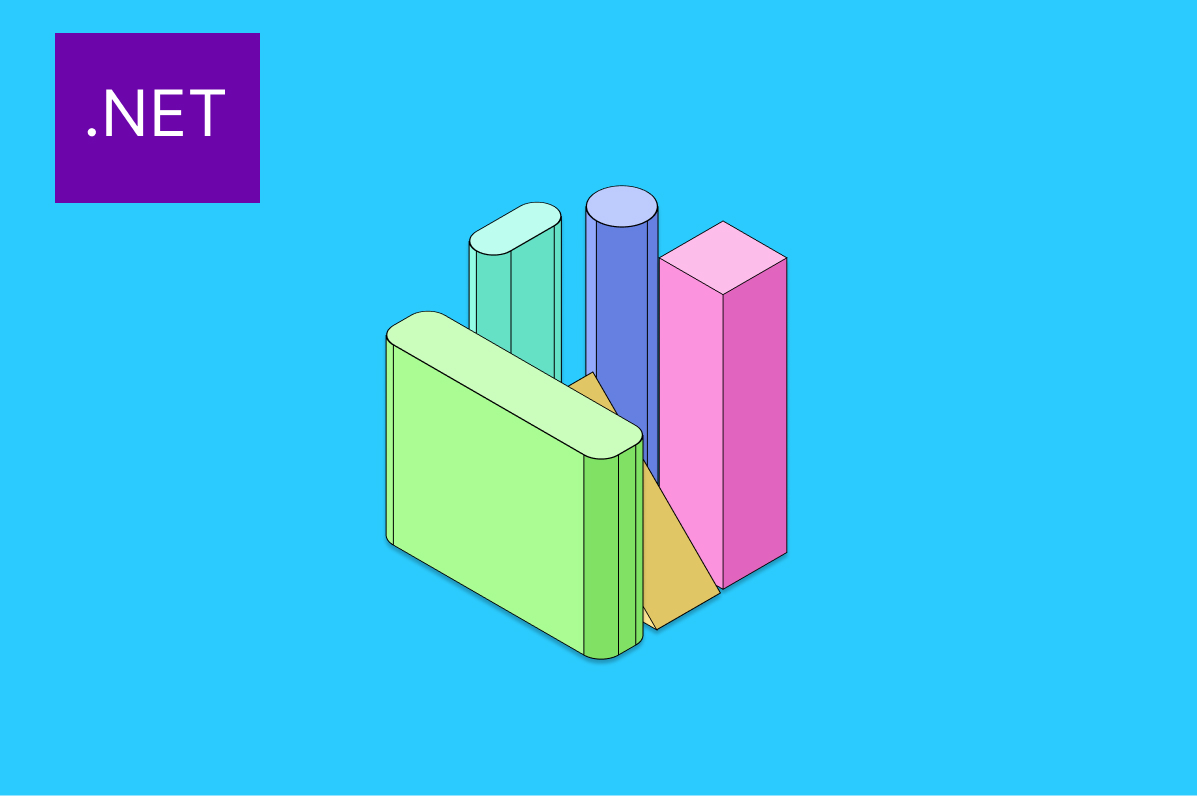
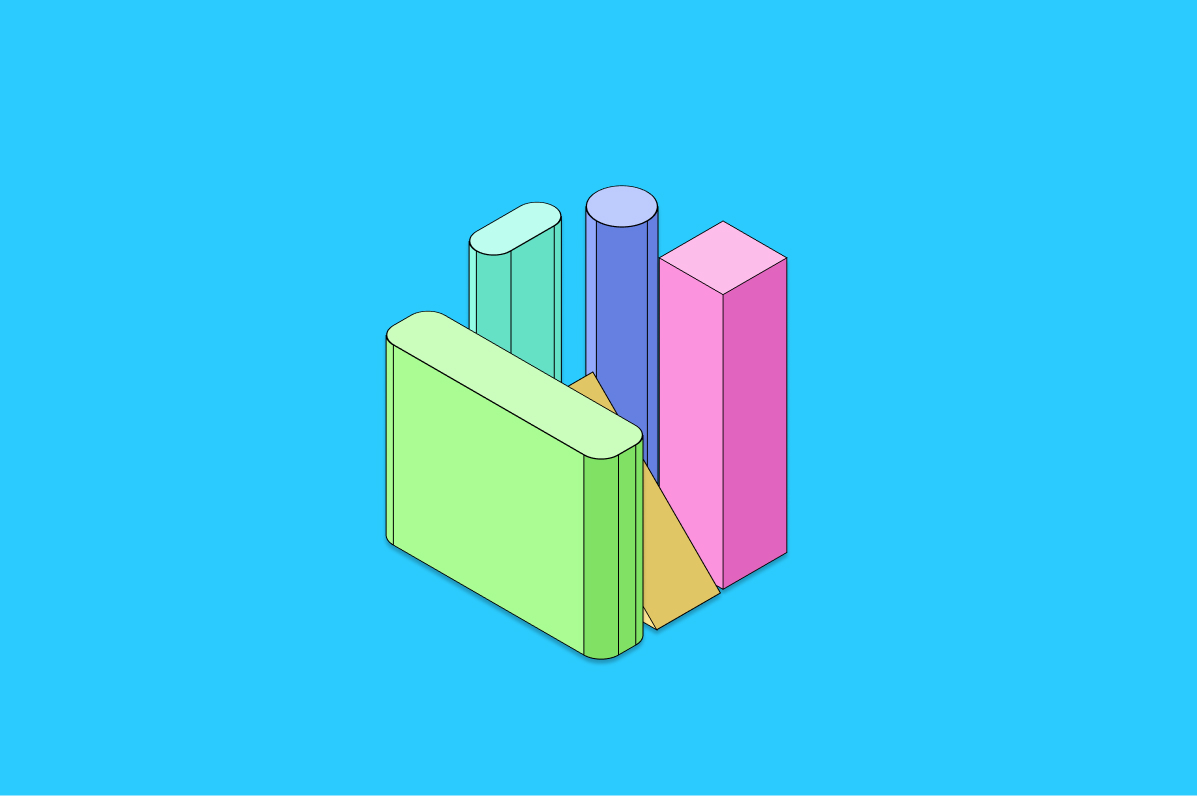
Add contact page information. Update home page with more Three JS items.:

Changed region(s): [[0.0309, 0.0302, 0.2164, 0.2714]]

diff --git a/src/components/Three.js b/src/components/Three.js
@@ -2,6 +2,11 @@ import React, { useRef, useEffect } from 'react';
 import * as THREE from 'three';
 import { useTheme } from '@mui/material/styles';
 
+import dotnet from 'assets/images/icons/dotnet.png';
+import webdesign from 'assets/images/icons/react.png';
+import html5 from 'assets/images/icons/html5.png';
+import css from 'assets/images/icons/css.png';
+
 const ThreeComponent = () => {
   const ref = useRef();
   const theme = useTheme();
@@ -27,12 +32,16 @@ const ThreeComponent = () => {
     });
 
     const cube1 = new THREE.Mesh(geometry, material);
-    cube1.position.set(6, 3, 0);
+    cube1.position.set(5, 4, 0);
     scene.add(cube1);
 
     const cube2 = new THREE.Mesh(geometry, material);
     cube2.position.set(-18, 3, -16);
     scene.add(cube2);
+
+    const cube3 = new THREE.Mesh(geometry, material);
+    cube3.position.set(1, -6, -5);
+    scene.add(cube3);
 
     const coneGeometry = new THREE.ConeGeometry(1, 2, 3);
     const cone1 = new THREE.Mesh(coneGeometry, material);
@@ -44,14 +53,16 @@ const ThreeComponent = () => {
     scene.add(cone2);
 
     const cone3 = new THREE.Mesh(coneGeometry, material);
-    cone3.position.set(-5, -11, -18);
+    cone3.position.set(-7, -11, -18);
     scene.add(cone3);
 
-    // IcosahedronGeometry
+    const cone4 = new THREE.Mesh(coneGeometry, material);
+    cone4.position.set(5, 19, -20);
+    scene.add(cone4);
 
     const icosahedronGeometry = new THREE.IcosahedronGeometry(1, 0);
     const icosahedron = new THREE.Mesh(icosahedronGeometry, material);
-    icosahedron.position.set(-8, -3, -4);
+    icosahedron.position.set(-8, -4, -4);
     scene.add(icosahedron);
 
     const octahedronGeometry = new THREE.OctahedronGeometry(1, 0);
@@ -60,8 +71,38 @@ const ThreeComponent = () => {
     scene.add(octahedron1);
 
     const octahedron2 = new THREE.Mesh(octahedronGeometry, material);
-    octahedron2.position.set(2, 11, -9);
+    octahedron2.position.set(-4, 12, -9);
     scene.add(octahedron2);
+
+    const textureLoader = new THREE.TextureLoader();
+    const texture1 = textureLoader.load(dotnet); // Replace with your image path
+    const circle1Material = new THREE.MeshMatcapMaterial({ map: texture1 });
+
+    const texture2 = textureLoader.load(webdesign); // Replace with your image path
+    const circle2Material = new THREE.MeshMatcapMaterial({ map: texture2 });
+
+    const texture3 = textureLoader.load(html5); // Replace with your image path
+    const circle3Material = new THREE.MeshMatcapMaterial({ map: texture3 });
+
+    const texture4 = textureLoader.load(css); // Replace with your image path
+    const circle4Material = new THREE.MeshMatcapMaterial({ map: texture4 });
+
+    const cylinderGeometry = new THREE.CylinderGeometry(1, 1, 0.2, 64);
+    const cylinder1 = new THREE.Mesh(cylinderGeometry, circle1Material);
+    cylinder1.position.set(-21, 7, -14);
+    scene.add(cylinder1);
+
+    const cylinder2 = new THREE.Mesh(cylinderGeometry, circle2Material);
+    cylinder2.position.set(27, 24, -28);
+    scene.add(cylinder2);
+
+    const cylinder3 = new THREE.Mesh(cylinderGeometry, circle3Material);
+    cylinder3.position.set(16, -6, -13);
+    scene.add(cylinder3);
+
+    const cylinder4 = new THREE.Mesh(cylinderGeometry, circle4Material);
+    cylinder4.position.set(-12, -14, -18);
+    scene.add(cylinder4);
 
     camera.position.z = 10;
 
@@ -71,6 +112,8 @@ const ThreeComponent = () => {
       cube1.rotation.y += 0.01;
       cube2.rotation.x += 0.01;
       cube2.rotation.y += 0.01;
+      cube3.rotation.x += 0.01;
+      cube3.rotation.y += 0.01;
 
       cone1.rotation.x += 0.01;
       cone1.rotation.y += 0.01;
@@ -78,6 +121,17 @@ const ThreeComponent = () => {
       cone2.rotation.y += 0.01;
       cone3.rotation.x += 0.01;
       cone3.rotation.y += 0.01;
+      cone4.rotation.x += 0.01;
+      cone4.rotation.y += 0.01;
+
+      cylinder1.rotation.x += 0.01;
+      cylinder1.rotation.y += 0.01;
+      cylinder2.rotation.x -= 0.01;
+      cylinder2.rotation.y -= 0.01;
+      cylinder3.rotation.x += 0.01;
+      cylinder3.rotation.y += 0.01;
+      cylinder4.rotation.x -= 0.01;
+      cylinder4.rotation.y -= 0.01;
 
       icosahedron.rotation.x += 0.01;
       icosahedron.rotation.y += 0.01;

diff --git a/src/components/ThreeSphere.js b/src/components/ThreeSphere.js
@@ -1,0 +1,68 @@
+import React, { useRef, useEffect } from 'react';
+import * as THREE from 'three';
+import { useTheme } from '@mui/material/styles';
+
+const ThreeSphere = () => {
+  const ref = useRef();
+  const theme = useTheme();
+
+  useEffect(() => {
+    const parent = ref.current;
+    const width = parent.clientWidth;
+    const height = 300;
+
+    const scene = new THREE.Scene();
+    const camera = new THREE.PerspectiveCamera(75, width / height, 0.1, 1000);
+    const renderer = new THREE.WebGLRenderer();
+
+    renderer.setSize(width, height);
+    renderer.setClearColor(theme.palette.background.paper, 1);
+
+    ref.current.appendChild(renderer.domElement);
+
+    const material = new THREE.MeshBasicMaterial({
+      color: parseInt(theme.palette.primary.main.slice(1), 16),
+      wireframe: true
+    });
+
+    const geometry = new THREE.SphereGeometry();
+    const sphere1 = new THREE.Mesh(geometry, material);
+    sphere1.position.set(0, 0, 0);
+    scene.add(sphere1);
+
+    // const sphere2 = new THREE.Mesh(geometry, material);
+    // sphere2.position.set(2, 0, 0);
+    // scene.add(sphere2);
+
+    // const sphere3 = new THREE.Mesh(geometry, material);
+    // sphere3.position.set(-2, 0, 0);
+    // scene.add(sphere3);
+
+    camera.position.z = 2;
+    let movementValue = 0.01;
+
+    const animate = () => {
+      requestAnimationFrame(animate);
+      sphere1.rotation.x += 0.004;
+      sphere1.rotation.y += 0.004;
+
+      sphere1.position.x += movementValue;
+      if (sphere1.position.x > 1) {
+        movementValue = -0.01;
+      } else if (sphere1.position.x < -1) {
+        movementValue = 0.01;
+      }
+      renderer.render(scene, camera);
+    };
+
+    animate();
+
+    return () => {
+      parent.removeChild(renderer.domElement);
+    };
+  }, [theme.palette.primary.main, theme.palette.background.paper]);
+
+  return <div ref={ref} />;
+};
+
+export default ThreeSphere;

diff --git a/src/pages/contact/index.js b/src/pages/contact/index.js
@@ -1,13 +1,42 @@
 // material-ui
 import { Grid, Typography } from '@mui/material';
 
+import MainCard from 'components/MainCard';
+
+import selfImage from 'assets/images/contact/aubreyyates.png';
+import ThreeSphere from 'components/ThreeSphere';
+
 // ==============================|| DASHBOARD - DEFAULT ||============================== //
 
 const Contact = () => {
   return (
-    <Grid container rowSpacing={4.5} columnSpacing={2.75}>
+    <Grid container rowSpacing={4.5} columnSpacing={2.75} sx={{ p: { xs: 2, sm: 3 } }}>
       <Grid item xs={12} sx={{ mb: -2.25 }}>
         <Typography variant="h3">Contact</Typography>
+      </Grid>
+      <Grid item xs={12} sx={{ mb: -2.25 }}>
+        <MainCard sx={{ mt: 2, boxShadow: 2, minHeight: '302px' }} content={false}>
+          <Grid container>
+            <Grid item xs={6} sx={{ p: 2 }}>
+              <Grid item xs={12}>
+                <Typography variant="h4" sx={{ mb: 2 }}>
+                  Location: Iowa City, IA
+                </Typography>
+                <Typography variant="h4" sx={{ mb: 2 }}>
+                  Phone: 319-530-0432
+                </Typography>
+                <Typography variant="h4">Email: aubreyyates999@hotmail.com</Typography>
+              </Grid>
+              <Grid item xs={12} sx={{ height: '300px', mt: 3 }}>
+                <ThreeSphere></ThreeSphere>
+              </Grid>
+            </Grid>
+
+            <Grid item xs={6}>
+              <img src={selfImage} alt="Aubrey Yates"></img>
+            </Grid>
+          </Grid>
+        </MainCard>
       </Grid>
     </Grid>
   );

diff --git a/src/pages/blog/BlogCard.js b/src/pages/blog/BlogCard.js
@@ -5,6 +5,7 @@ import { Grid, Typography } from '@mui/material';
 import MainCard from 'components/MainCard';
 import ComponentSkeleton from 'pages/components-overview/ComponentSkeleton';
 import { Link } from '../../../node_modules/react-router-dom/dist/index';
+import DotNet from './technologyCards/DotNet';
 
 const BlogCard = ({ blog: blog }) => {
   const imagePath = require(`assets/images/blogs/${blog.imageUrl}.jpg`);
@@ -14,7 +15,10 @@ const BlogCard = ({ blog: blog }) => {
       <Grid item xs={12} md={6} lg={4}>
         <Link to={blog.link} style={{ textDecoration: 'none' }}>
           <MainCard sx={{ mt: 2, boxShadow: 2, minHeight: '302px' }} content={false}>
-            <Grid item>
+            <Grid item sx={{ position: 'relative' }}>
+              {blog.technologies.includes('dotnet') && <DotNet />}
+              {/* ({blog.technologies.contains('react')} && <DotNet />)
+              ({blog.technologies.contains('dotnet')} && <DotNet />) */}
               <div>
                 <img src={imagePath} style={{ width: '100%', height: 'auto' }} alt="blog" />
               </div>

diff --git a/src/layout/MainLayout/Header/HeaderContent/Search.js b/src/layout/MainLayout/Header/HeaderContent/Search.js
@@ -1,14 +1,15 @@
 // material-ui
-import { Box, FormControl, InputAdornment, OutlinedInput } from '@mui/material';
+// import { Box, FormControl, InputAdornment, OutlinedInput } from '@mui/material';
+import { Box } from '@mui/material';
 
 // assets
-import { SearchOutlined } from '@ant-design/icons';
+// import { SearchOutlined } from '@ant-design/icons';
 
 // ==============================|| HEADER CONTENT - SEARCH ||============================== //
 
 const Search = () => (
   <Box sx={{ width: '100%', ml: { xs: 0, md: 1 } }}>
-    <FormControl sx={{ width: { xs: '100%', md: 224 } }}>
+    {/* <FormControl sx={{ width: { xs: '100%', md: 224 } }}>
       <OutlinedInput
         size="small"
         id="header-search"
@@ -23,7 +24,7 @@ const Search = () => (
         }}
         placeholder="Ctrl + K"
       />
-    </FormControl>
+    </FormControl> */}
   </Box>
 );
 

diff --git a/src/pages/blog/technologyCards/DotNet.js b/src/pages/blog/technologyCards/DotNet.js
@@ -1,0 +1,16 @@
+import { Grid } from '@mui/material';
+import { useTheme } from '@mui/material/styles';
+
+const DotNet = () => {
+  const theme = useTheme();
+
+  const imagePath = require(`assets/images/icons/dotnet.png`);
+
+  return (
+    <Grid item xs={2} sx={{ position: 'absolute', mt: 1, ml: 1 }}>
+      <img style={{ width: '60px', borderRadius: '4px', boxShadow: theme.customShadows.z1 }} src={imagePath} alt="dotnet-icon"></img>
+    </Grid>
+  );
+};
+
+export default DotNet;

diff --git a/src/pages/blog/blogs.js b/src/pages/blog/blogs.js
@@ -4,7 +4,8 @@ const blogs = [
     name: 'Implement a repository in ASP.NET Core',
     description: 'Why you want to implement a repository in your ASP.NET Core application.',
     link: 'implement-repository-aspnet-core',
-    imageUrl: 'repository'
+    imageUrl: 'repository',
+    technologies: ['dotnet']
   }
 ];
 

diff --git a/src/pages/dashboard/HomeOverlay.js b/src/pages/dashboard/HomeOverlay.js
@@ -40,7 +40,6 @@ const HomeOverlay = () => {
 
         <Grid item xs={3} sx={{ mb: -2.25 }}></Grid>
         <Grid item xs={6} sx={{ mb: -2.25 }}>
-          {' '}
           {technologies.map((technology, index) => (
             <Chip key={index} label={technology} sx={{ mb: 1, mr: 1 }} />
           ))}
